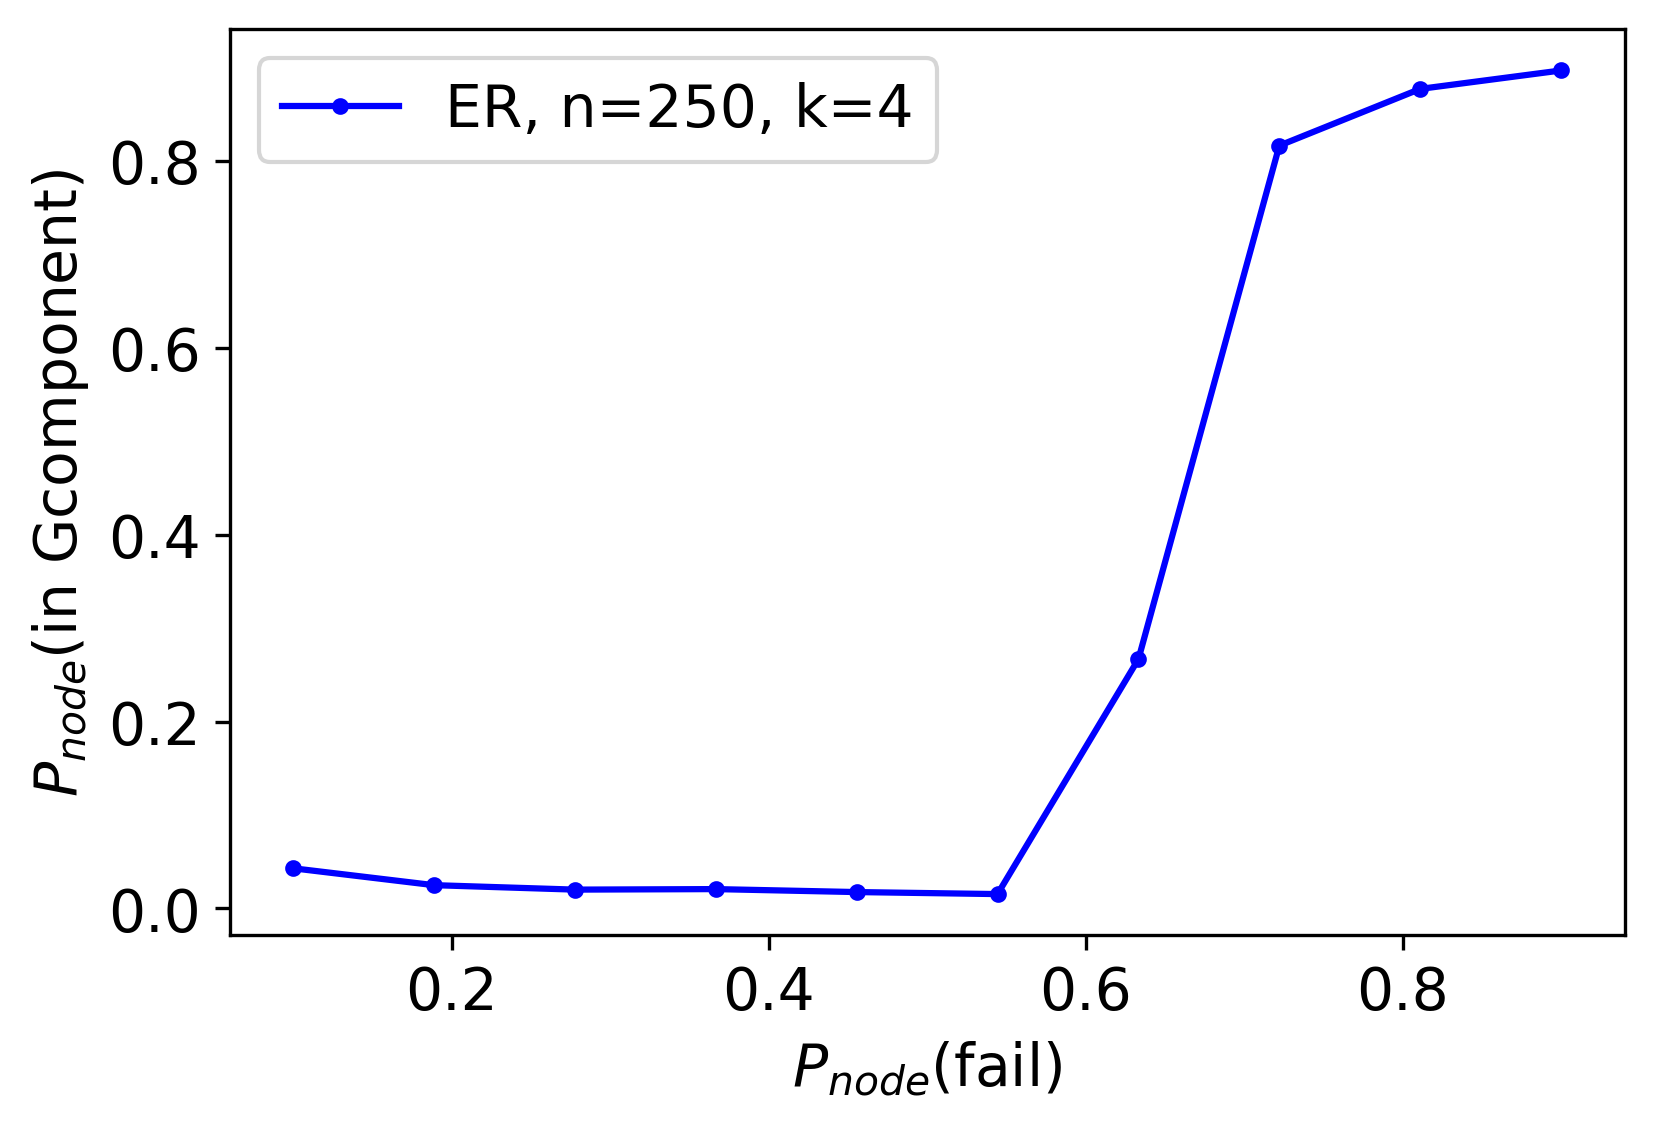
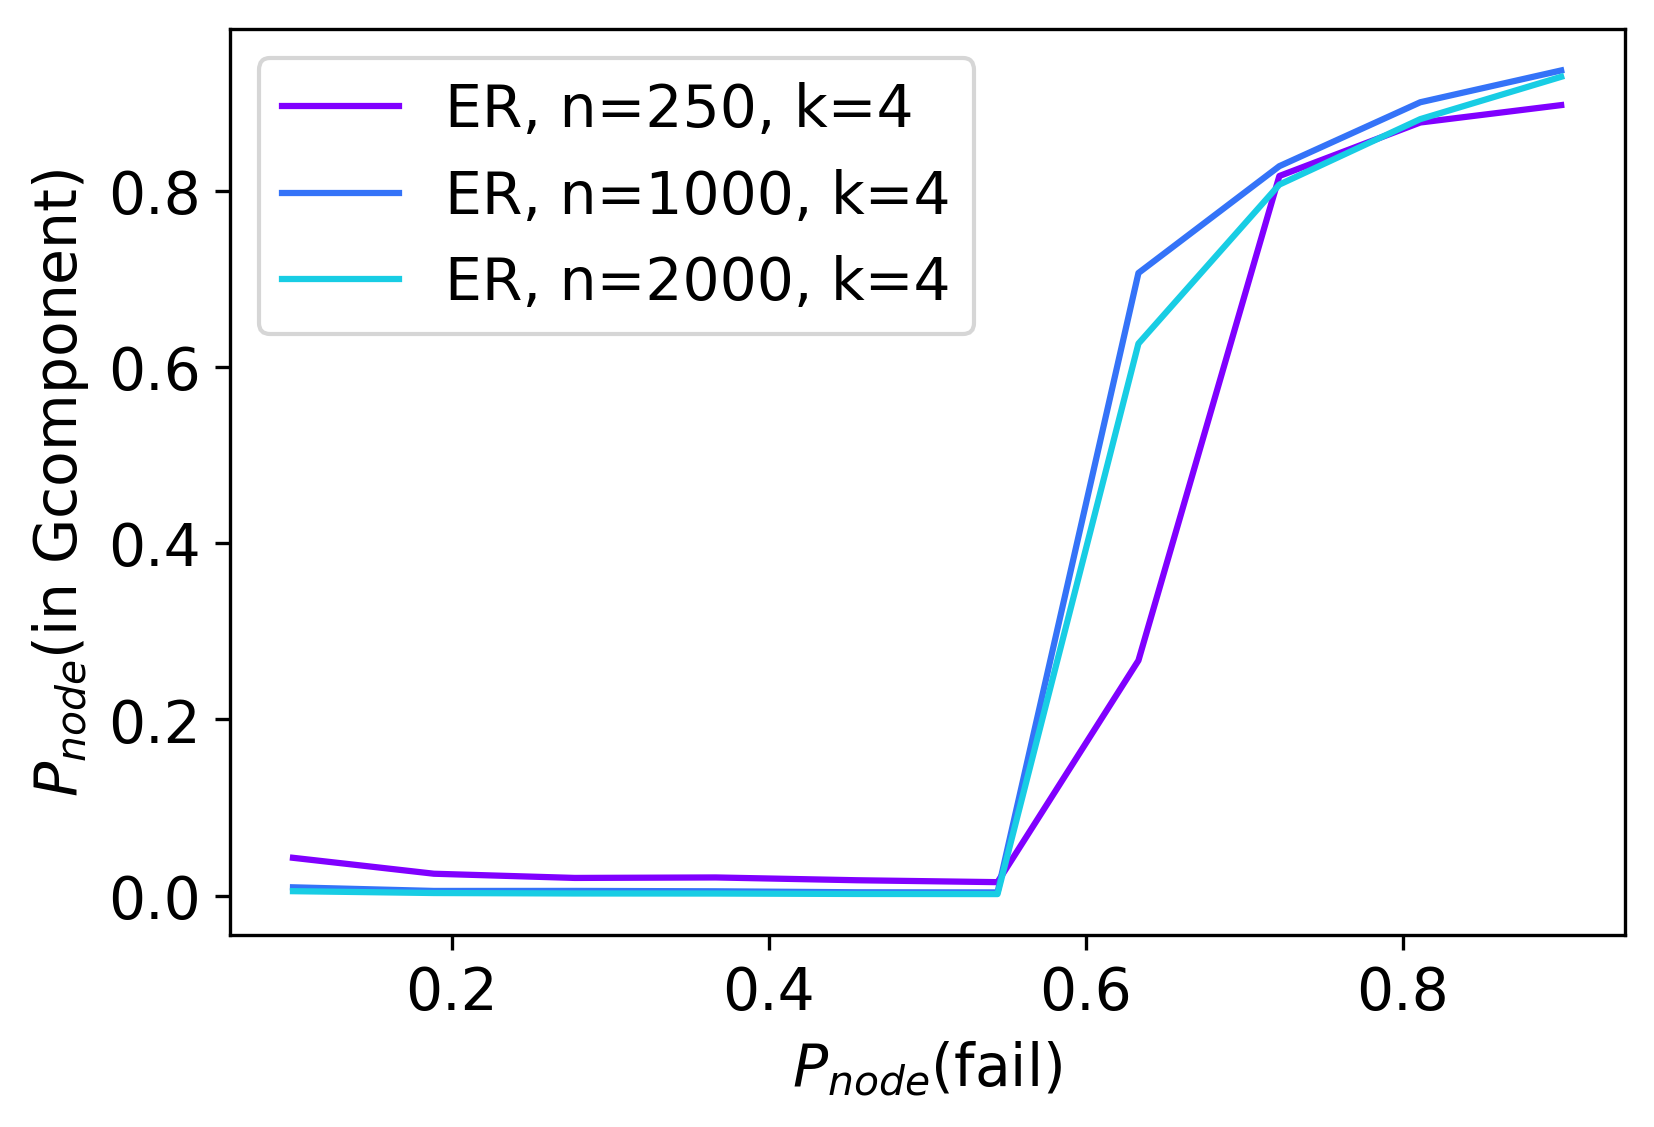
ER exp

diff --git a/src/measure.py b/src/measure.py
@@ -118,12 +118,13 @@ def plot_pinf(results, k, labels, path=None, p_theory=False):
 
     """
     plt.rcParams.update({'font.size': 14})
+    color = iter(plt.cm.rainbow(np.linspace(0.0, 0.3, len(results))))
 
     for i, res in enumerate(results):
         pks = res[0]
         p_infs = res[1]
 
-        plt.plot(pks, p_infs, '.b-', label=labels[i])
+        plt.plot(pks, p_infs, c=next(color), label=labels[i])
 
     plt.xlabel('$P_{node}$(fail)')
     plt.ylabel('$P_{node}$(in Gcomponent)')
